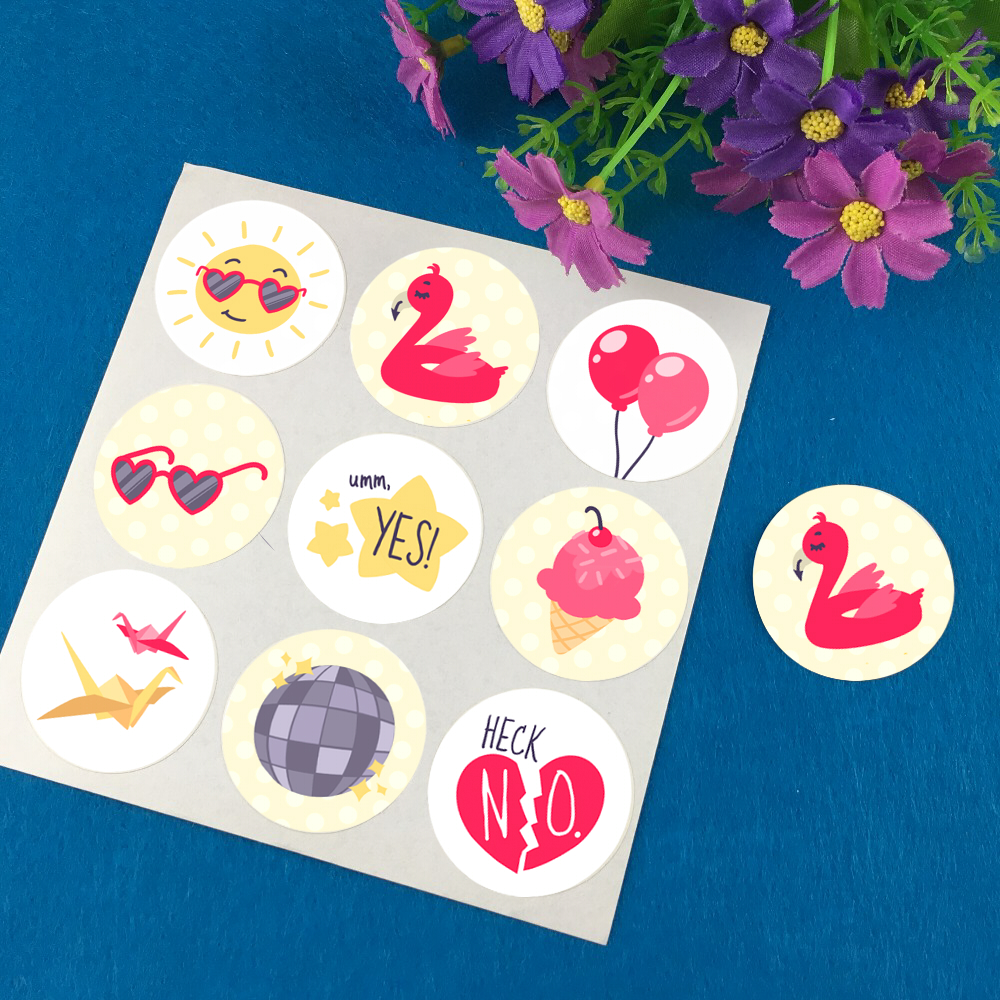
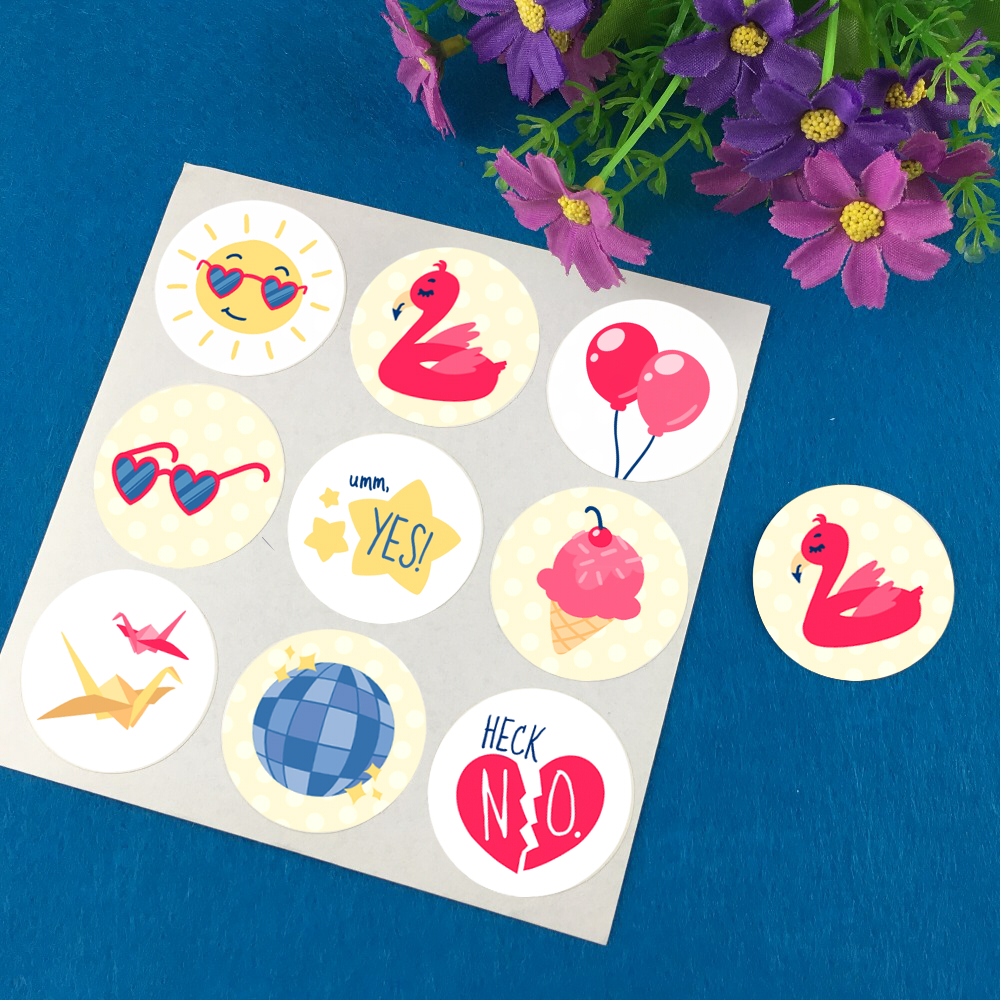
updated latitude and wellkeptchaos

diff --git a/hi-latitude.html b/hi-latitude.html
@@ -71,21 +71,15 @@
             <div class="blue">
                 
                 <div class="container">
-    <div class="row"><br><p>I spent an embarrassing amount of time poring over the genius that makes up the work boasted on the Latitude website... “Geeking out” is probably putting it gently.<br><br>
-
-Latitude stands out from the crowd by breaking the mold.  In a world where consumers are constantly slapped with an onslaught of ads on every web page they visit, Latitude has found ways to present brands in innovative and unique ways that inspire consumer interaction.  By encouraging beauty bloggers to record and share their stories, the “advertisement” becomes a memorable experience for participants at the Ulta booth at BlogHer '13, while also forming a personal bond between the Ulta brand and each blogger.<br><br>
-
-You guys seem to be experts at connecting consumers with brands in a way that sticks.  The Ulta and Sally Hansen campaigns did this by encouraging participation and creating an experience.  Even the 90 second “About” video is proof of Latitude's ability to deeply connect a brand and a customer.  The video immediately has the <em>viewer</em> identify as the vermillion-colored dot, and just as quickly aligns Latitude by referencing <em>“an agency”</em> in the same shade.  Vermillion dots connect the words describing the variety of services Latitude, and by the end of the video, the seed has been planted that by hiring this agency in particular, a company can propel its brand above the rest and reach consumers in ways it hasn't before.<br><br>
-
-I can't think of a better fit for me than a company that celebrates innovation and boldness, with no fear towards taking on new challenges every day.  Yes, I have skills … <em>UX/UI, Illustration, Visual Storytelling, Graphic Design and CNC Laser Engraving</em> to name a few.
-But more importantly, I have <em>creative talent</em> and a <em>mind that thinks out-of-the-box.</em>
-And I thrive in high energy, optimistic, future-focused environments where new challenges are embraced with enthusiasm and resourcefulness.  <br><br>
-
-        Most of the work in my <a href="/portfolio.html">Portfolio</a> is UX/UI focused.  I most recently finished working on <a href="/happyhour.html">Happy Hour</a>, an app design that allows users to record wines and beers they have enjoyed, discover new bottles, and share their wine and beer wishlist with family and friends.  I conducted user research, created user stories and user flows, designed wireframes, and fleshed out the finished HD screens, which I used to create a clickable prototype.  To see this project and more of the stuff I've worked on, head over to my <a href="/portfolio.html">Portfolio</a>.<br><br>
-
-Regardless of whether you're hiring right now, I would love the opportunity to sit down and make a personal connection with someone from Latitude, and hear more about the awesome work you guys are doing.<br><br>
-
-Looking forward to hearing from you!<br><br>
+    <div class="row"><br><p><p>I spent an embarrassing amount of time poring over the genius that makes up the work
+boasted on the Latitude website. “Geeking out” is probably putting it gently.<br><br>
+You guys are clearly experts at connecting consumers with brands in a way that sticks. By encouraging beauty bloggers at the Ulta booth at BlogHer 2013 to record and share their stories, the “advertisement” becomes not only a memorable experience for participants, but also forms a personal bond between the Ulta brand and each blogger. Even your website’s
+90 second “About” video immediately has the <em>viewer</em> identify as the vermillion-colored dot, and just as quickly aligns Latitude by referencing <em>"an agency"</em> as well as your services in the same shade. Within 90 seconds, the seed has been planted that by hiring your agency, a company can propel its brand above the rest and reach consumers in ways it hasn't before.<br><br> 
+I am a high-energy person who thrives in the company of other make-it- happen people. Yes, I have skills: <em>UX/UI, Illustration, Visual Storytelling, Graphic Design and CNC Laser Engraving</em> to name a few. But more importantly, I have <em>creative talent</em> and <em>a mind that thinks out-of- the-box.</em>  I would be thrilled to put these skills and talents to work at Latitude, where new challenges are embraced with enthusiasm and resourcefulness.<br><br>
+Most of the work in my <a href="/portfolio.html">Portfolio</a> is UX/UI focused. I most recently finished working on <a href="/happyhour.html">Happy Hour</a>, an app design that allows users to record wines and beers they have
+enjoyed, discover new bottles, and share their wishlists with family and friends. I also designed <a href="/locomoda.html">Loco Moda</a>, a buying and selling platform for fashion lovers and creatives, where shoppers can find one-of- a-kind wearable art. To see these projects and more of the stuff I've worked on, head over to my <a href="/portfolio.html">Portfolio</a>.<br><br>
+Regardless of whether you are hiring right now, I would love the opportunity to sit down and make a personal connection with someone from Latitude and hear more about the awesome work you guys are doing.<br><br>
+        Looking forward to hearing from you!<br><br>
 <div class="centered">
 Sincerely, <br>
     Haley Guilfoile</div><br><br></div></div></div>

diff --git a/wellkeptchaos.html b/wellkeptchaos.html
@@ -67,9 +67,11 @@
         <div class = "centered">
         <h5>Well Kept Chaos</h5><br>
             <h4>Spot Illustrations <br>Designed for Catherine Sarlis of <a href="http://www.wellkeptchaos.com/" target="_blank">http://www.wellkeptchaos.com/</a></h4><br><br>
-     <div class="row">
-        <img src="images/wellkeptchaos/stickers.jpg"/><br><br><p class="centered caption">Stickers Mockup</p><img src="images/wellkeptchaos/partyhardiystickers.png"/><br><br><p class="centered caption">Sticker Designs</p>
-         <img src="images/wellkeptchaos/flamingowall.jpeg"/><br><br><p class="centered caption">Wallpaper Mockup</p>
+        </div><h5>The Project</h5><br><div class ="centered"><p>Catherine was working on rebranding her party planning and lifestyle blog, Well Kept Chaos.  She wanted a set of sticker-style spot illustrations that she can use throughout her blog and social media.</p>
+        </div><h5>The Solution</h5><br><div class ="centered"><p>Catherine's blog is full of bright colors, and lots of fun.  I wanted to capture that spirit and create some spot illustrations that would certainly correlate with what she regularly blogs about.  Initially I went with greys where the blues are currently, and Catherine requested I change the greys to various shades of blue.<br>  The result is a set of bright, cheerful, and fun illustrations that will supplement her blog posts, Facebook posts, and Instagram posts.</p>
+     <div class="row"><br><br>
+        <img src="images/wellkeptchaos/stickers.jpg"/><br><br><p class="centered caption">Stickers Mockup</p><img src="images/wellkeptchaos/partyhardiystickers.jpg"/><br><br><p class="centered caption">Sticker Designs</p>
+         <img src="images/wellkeptchaos/old-flamingowall.jpeg"/><br><br><p class="centered caption">Wallpaper Mockup</p>
          <img src="images/wellkeptchaos/ummyes.jpg"/><br><br><p class="centered caption">Poster Mockup</p>
             </div> </div></div>
         </div>

diff --git a/css/style.css b/css/style.css
@@ -133,7 +133,7 @@ left:0px;
 }
 
 .nospace {
-    margin-bottom: -18px;
+    margin-bottom: -10px;
 }
 em {
     color: #E85F44;
